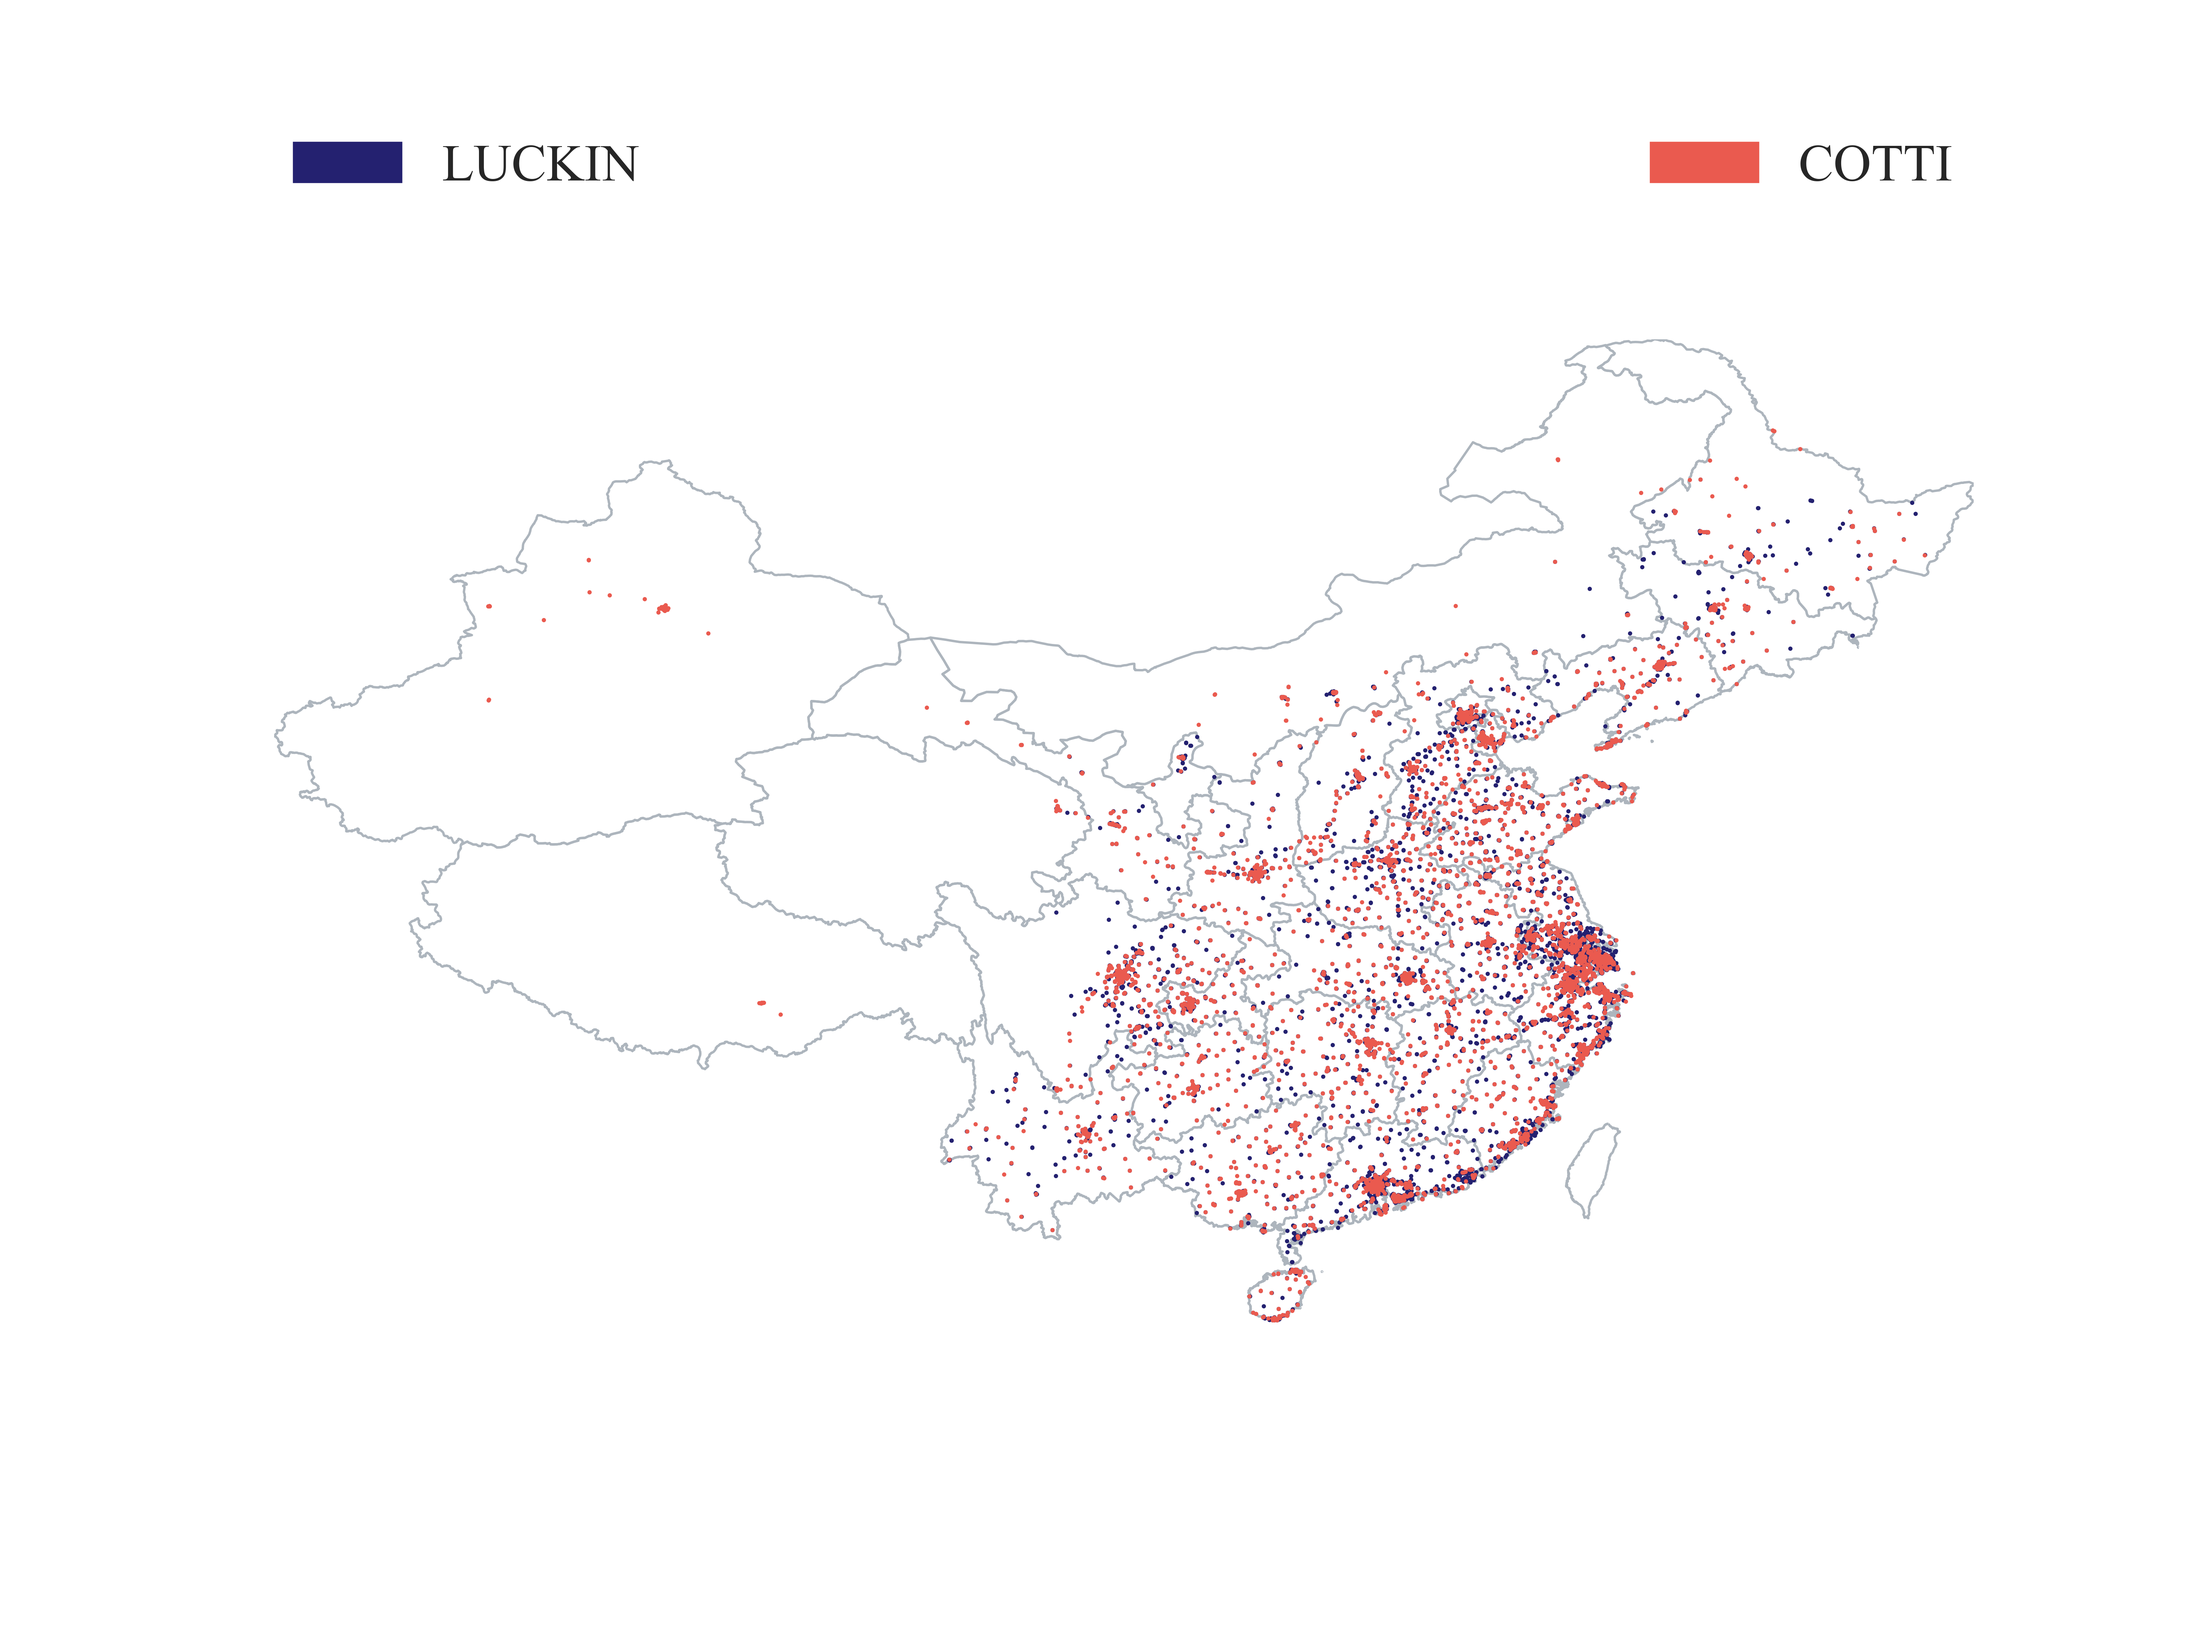
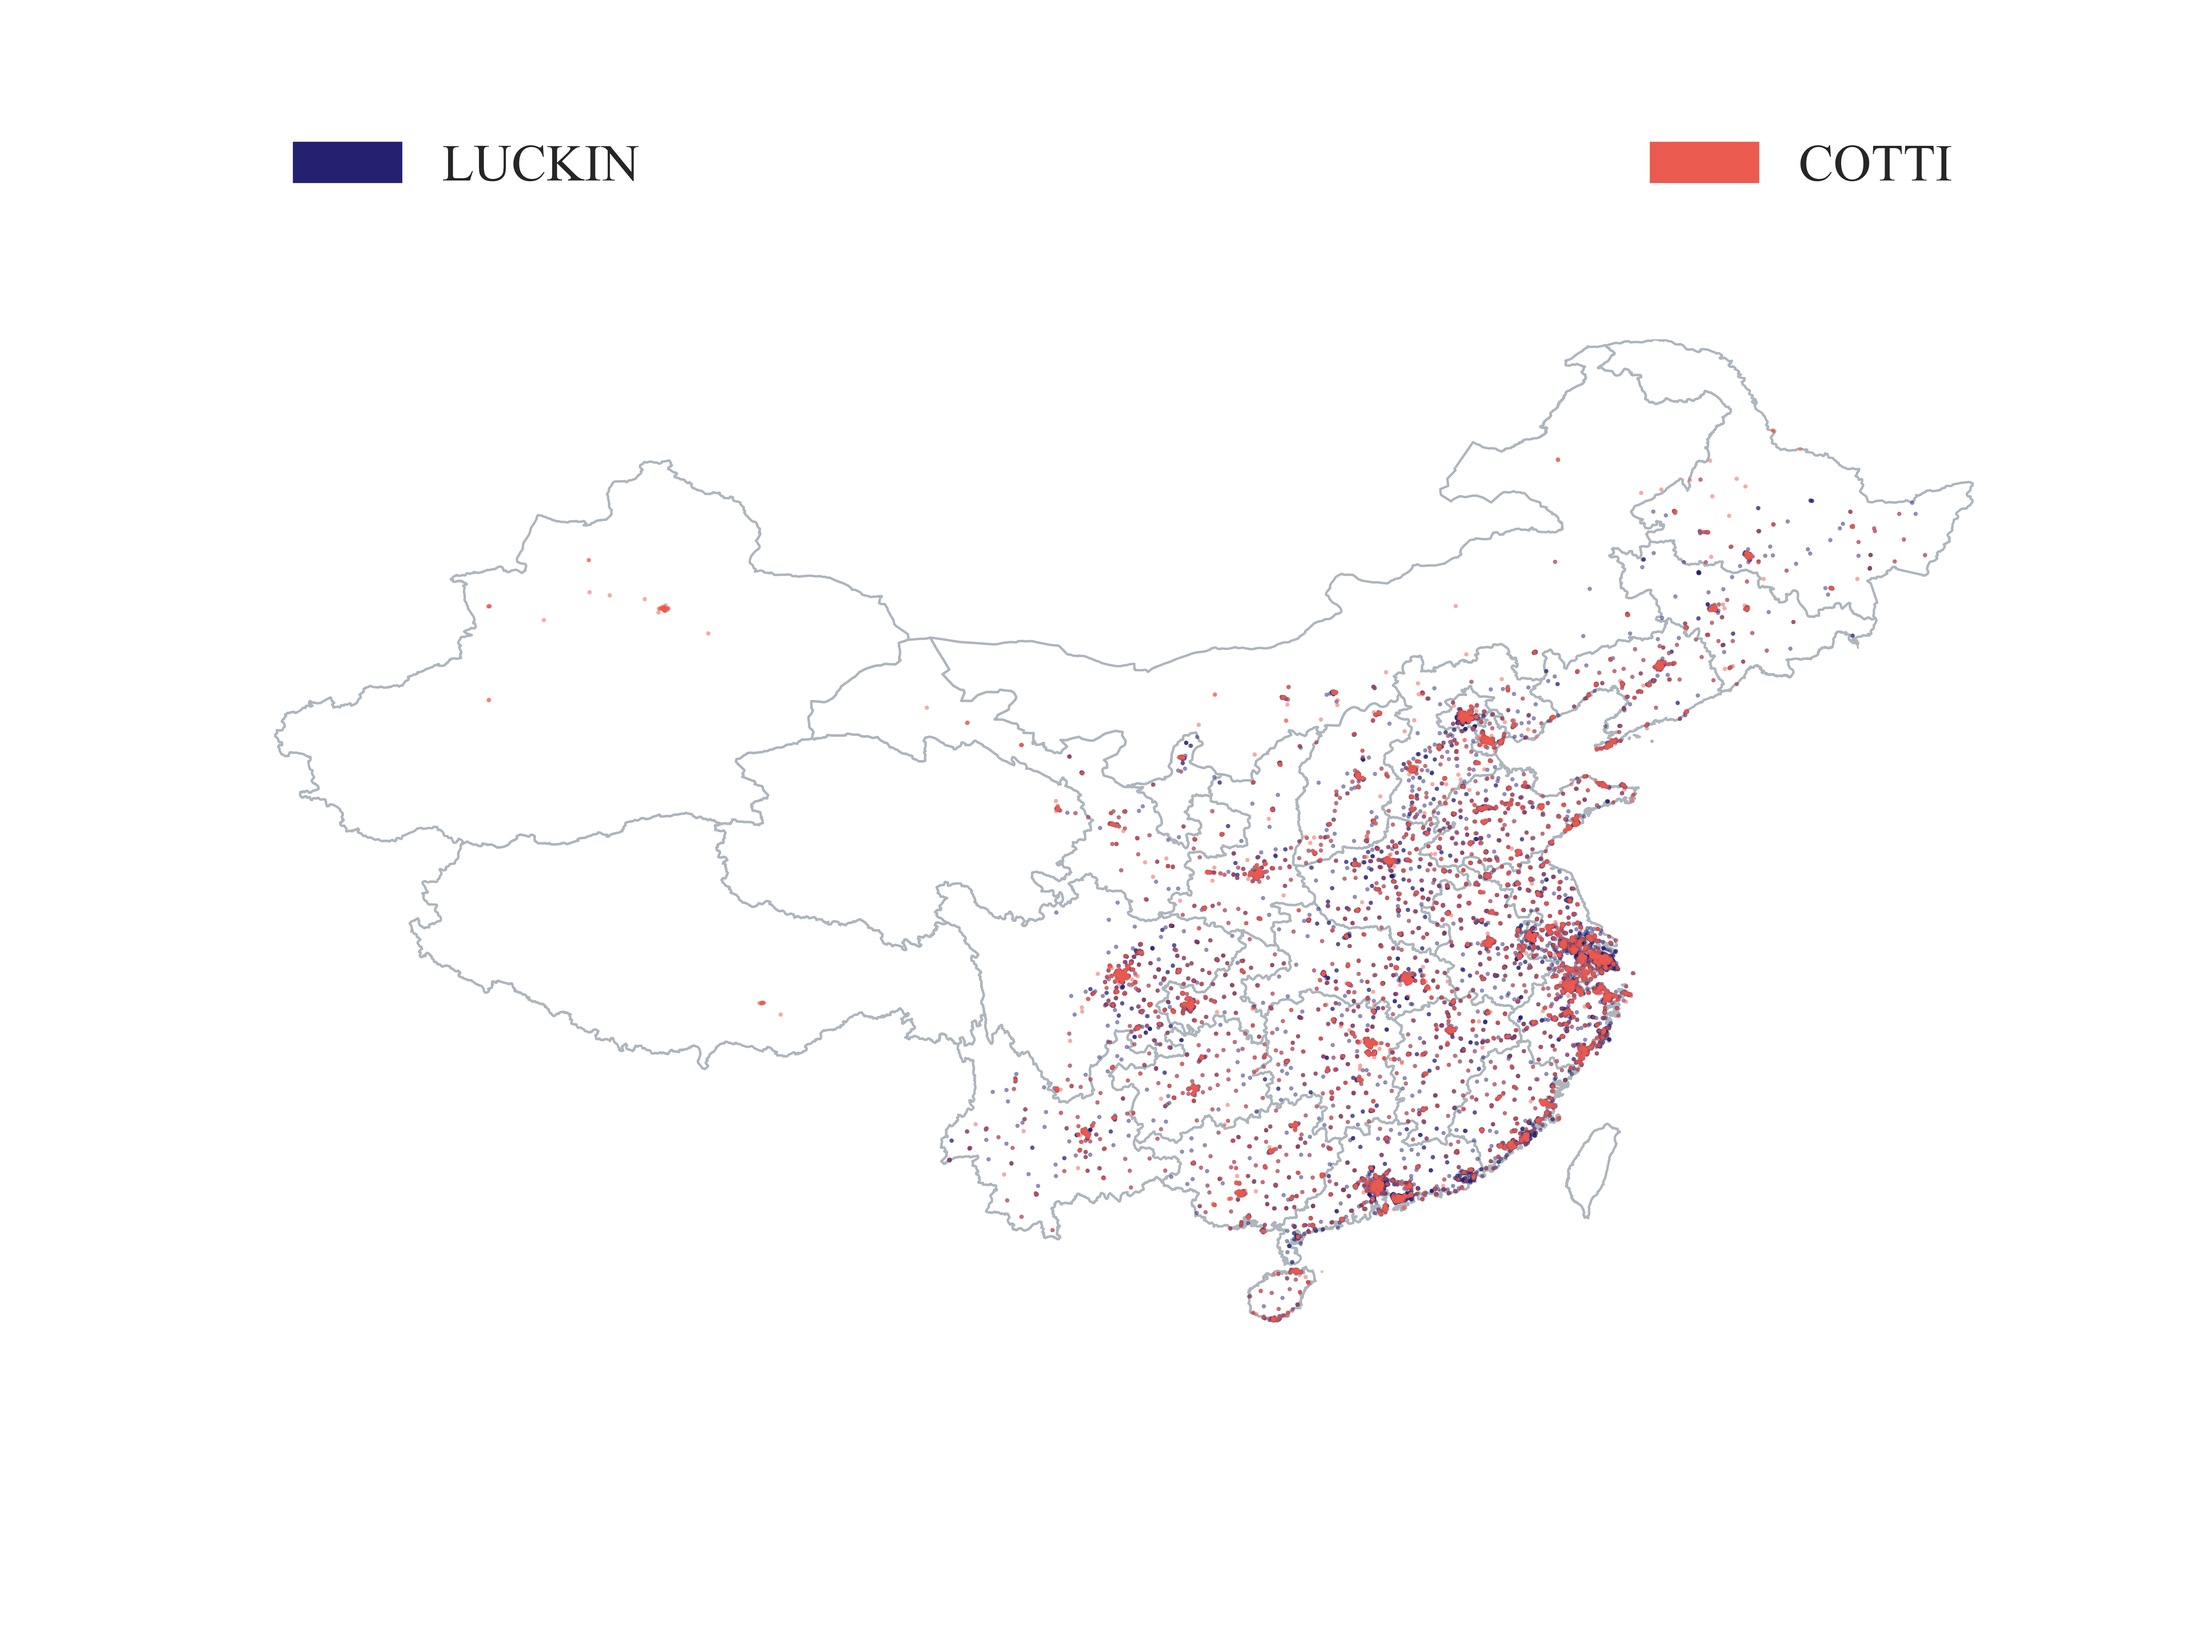
figure update

Changed region(s): [[0.5625, 0.4375, 0.75, 0.75], [0.5, 0.5625, 0.5625, 0.625], [0.5312, 0.6562, 0.5625, 0.6875]]

diff --git a/scripts/gaode_data_crawl.py b/scripts/gaode_data_crawl.py
@@ -528,7 +528,7 @@ def coffee_visualization(input_df_path, province, type):
     
     num_ratio = 0.1
     
-    for index, row in charging_gdf.iterrows():
+    for index, row in charging_province.iterrows():
         if row["coffee"] == "LUCKIN":
             ax.scatter(row.geometry.x, row.geometry.y, s=20*num_ratio, color='#242170', linewidths=0, edgecolor=None, alpha=0.5)
         elif row["coffee"] == "COTTI":
